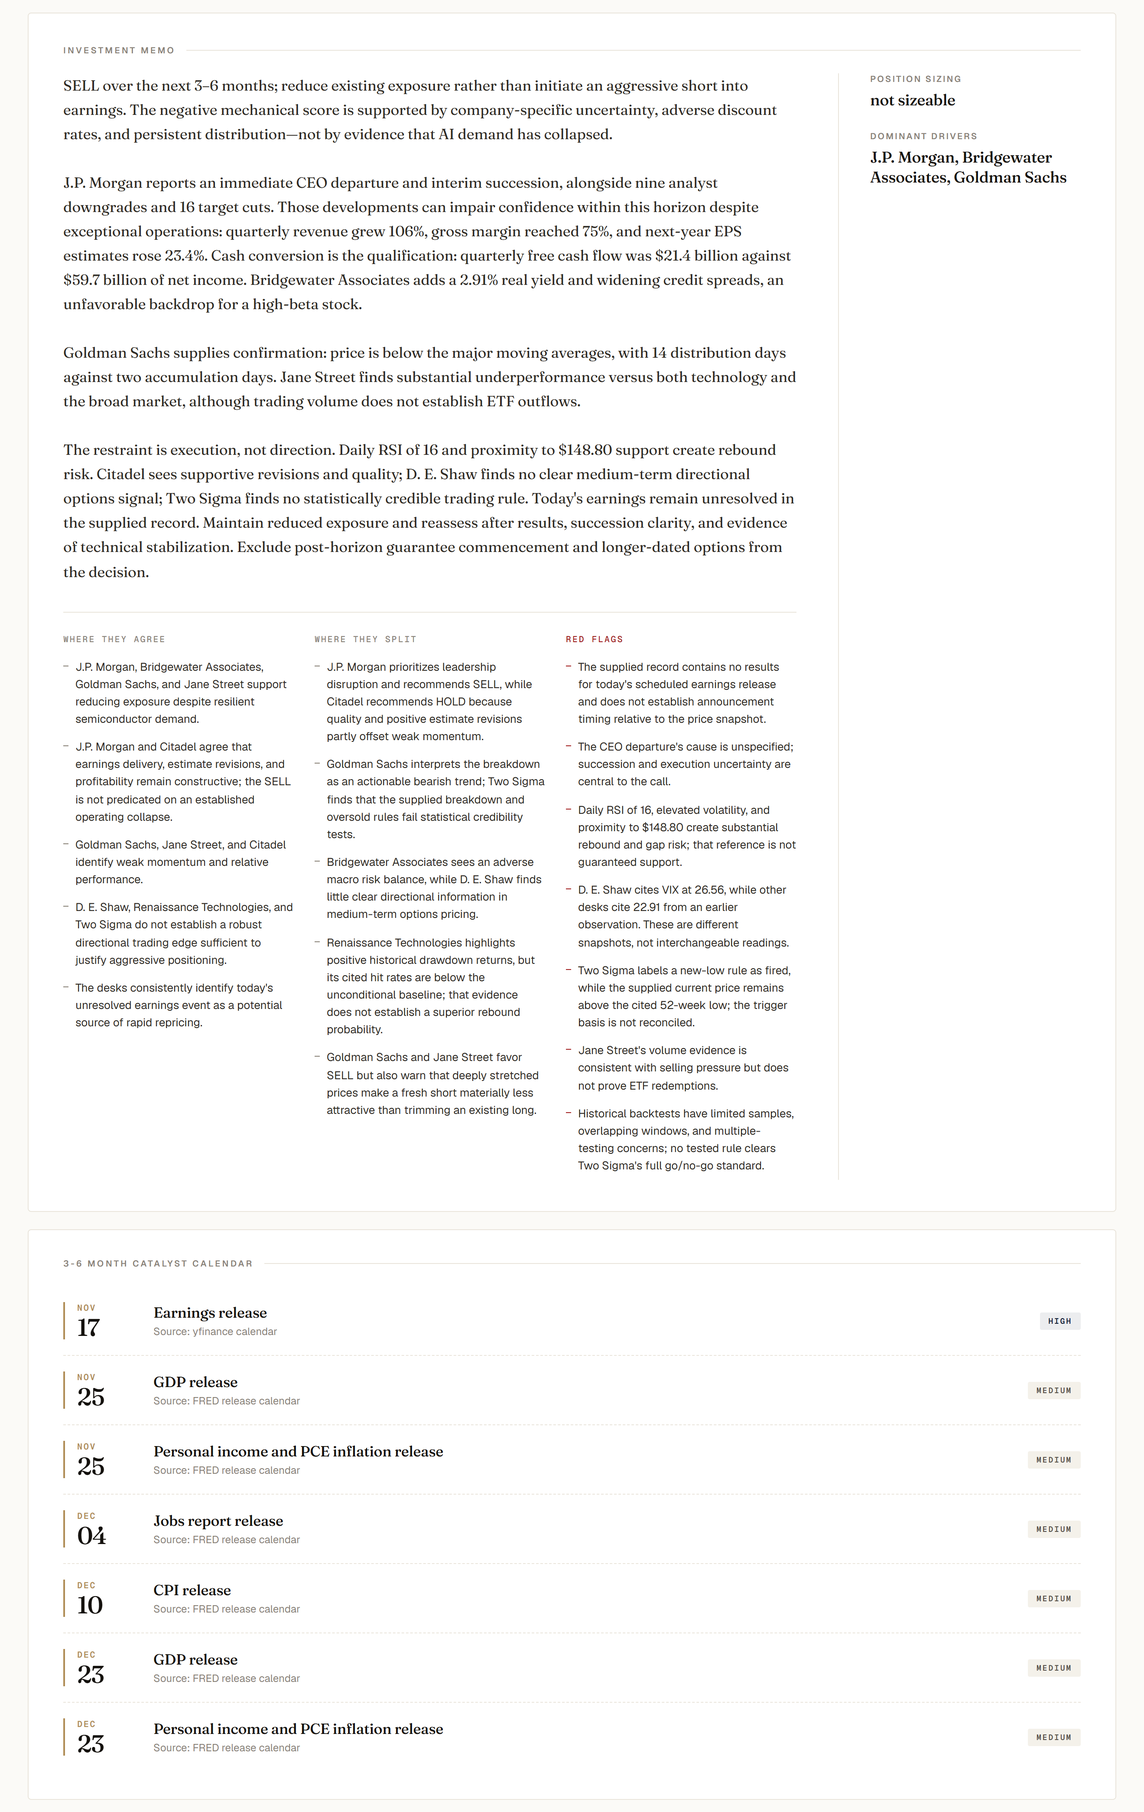
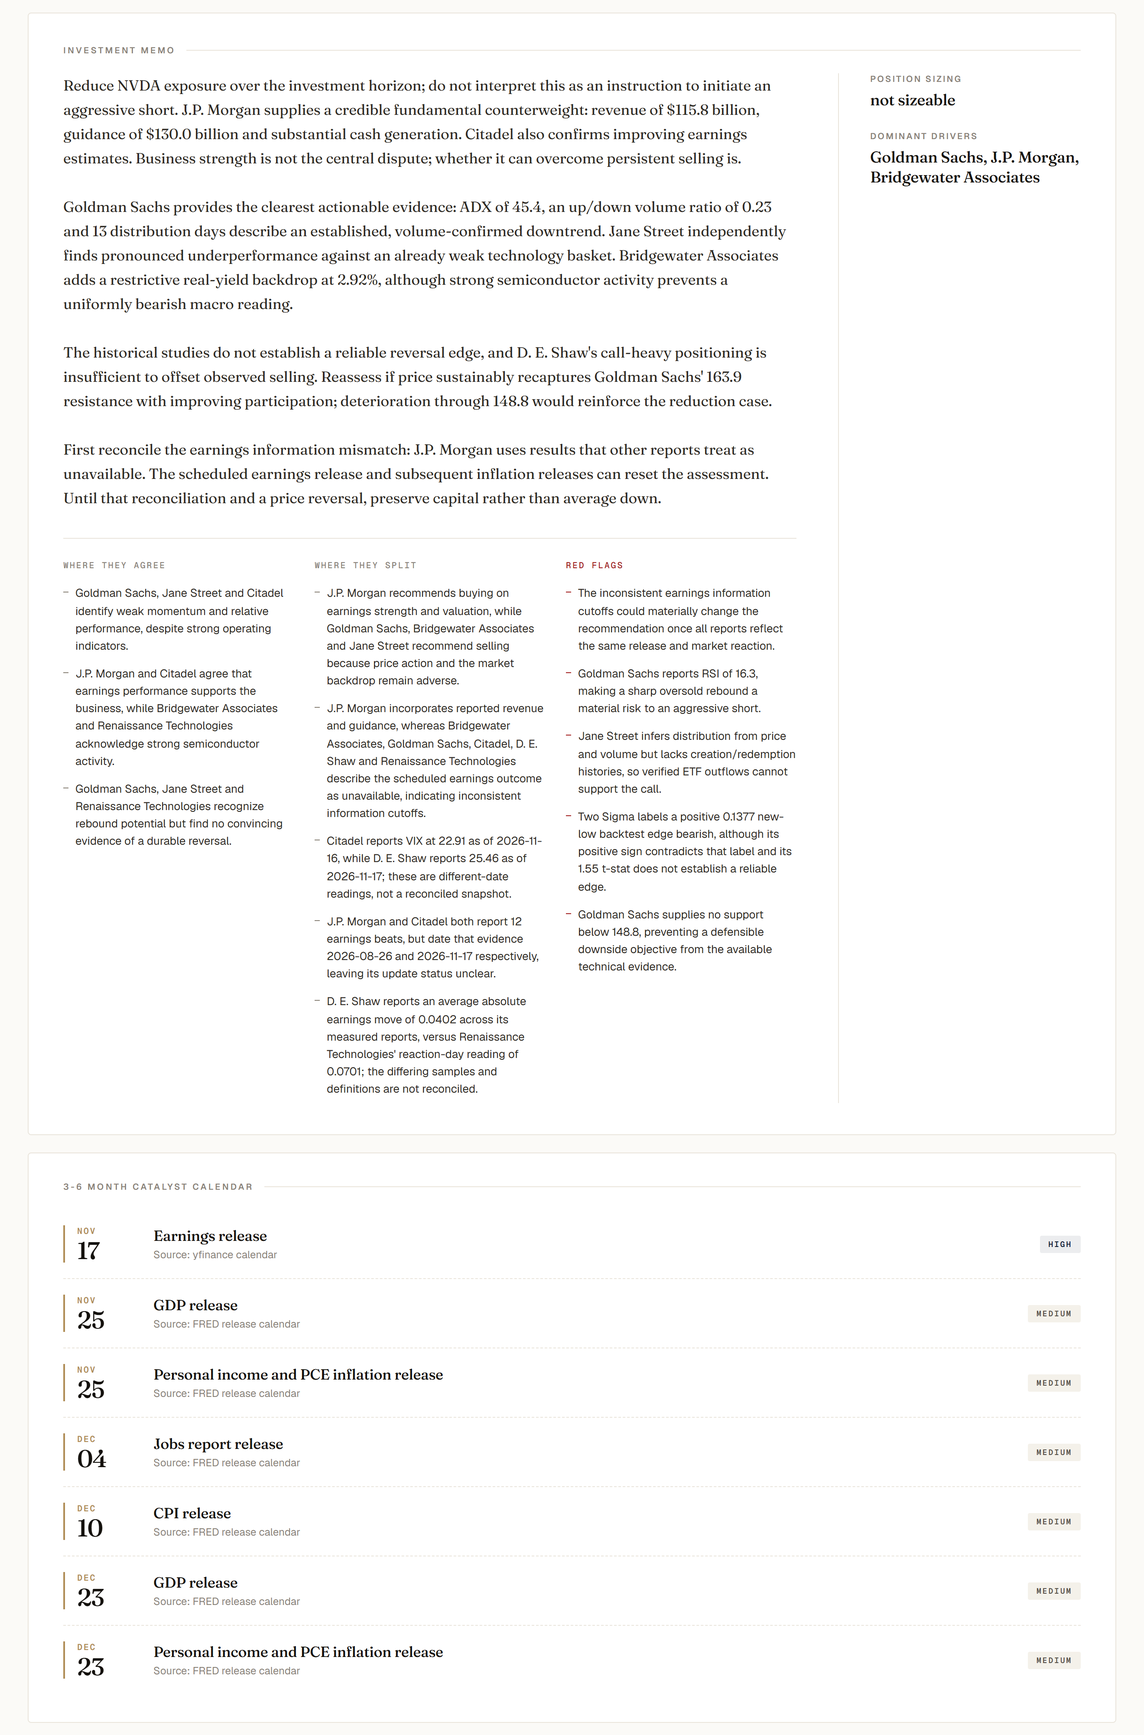
docs: how the desks report, with screenshots from a structured run
Also from that run: ETF landscape numbers are rounded, prose bullets are
asked to write numbers for a reader, Two Sigma states a rule's direction in
its evidence, and a ratio is shown as a plain number.

Claude-Session: https://claude.ai/code/session_017hq6XL2Prx1LLnTUxuNErU

diff --git a/equity_trader/data/yfinance_tools.py b/equity_trader/data/yfinance_tools.py
@@ -193,7 +193,7 @@ def _window_return(df, days: int) -> float | None:
     """Return over the last `days` sessions, or None if history is too short."""
     if df is None or len(df) < days + 1:
         return None
-    return float(df["Close"].iloc[-1] / df["Close"].iloc[-(days + 1)] - 1.0)
+    return num(df["Close"].iloc[-1] / df["Close"].iloc[-(days + 1)] - 1.0)
 
 
 def _beta(ticker_df, market_df) -> float | None:
@@ -207,7 +207,7 @@ def _beta(ticker_df, market_df) -> float | None:
             return None
         cov = joined.iloc[:, 0].cov(joined.iloc[:, 1])
         var = joined.iloc[:, 1].var()
-        return float(cov / var) if var > 0 else None
+        return num(cov / var, 3) if var > 0 else None
     except Exception:
         return None
 
@@ -244,7 +244,7 @@ def get_etf_landscape(ticker: str) -> dict:
 
     avg_60 = float(ticker_df["Volume"].tail(60).mean()) if len(ticker_df) >= 60 else None
     recent_5 = float(ticker_df["Volume"].tail(5).mean()) if len(ticker_df) >= 5 else None
-    vol_ratio = (recent_5 / avg_60) if (avg_60 and avg_60 > 0) else None
+    vol_ratio = num(recent_5 / avg_60, 2) if (avg_60 and avg_60 > 0) else None
 
     return {
         "as_of": as_of(ticker_df),

diff --git a/equity_trader/agents/base.py b/equity_trader/agents/base.py
@@ -66,7 +66,9 @@ def shared_rules_block() -> str:
         "3. ALWAYS provide thesis bullets (1-6) AND risks (1-4), regardless of\n"
         "   whether you call BUY, HOLD, or SELL. Thesis = your findings, built\n"
         "   on your evidence. Risks = what could invalidate them or hurt the\n"
-        "   position. Keep each bullet to one or two sentences. A HOLD with no\n"
+        "   position. Keep each bullet to one or two sentences, and write its\n"
+        "   numbers the way an analyst would: 29% where the DATA says 0.29,\n"
+        "   rounded to what matters. Only `evidence` copies raw. A HOLD with no\n"
         "   thesis is useless - even 'rule X hit rate is 48% on 23 trades, no\n"
         "   edge' is a thesis bullet.\n"
         "4. Conviction is 1-10 where 10 = bet-the-book confidence.\n"

diff --git a/tests/test_app.py b/tests/test_app.py
@@ -32,7 +32,7 @@ def _desk(name, rec="HOLD", err=None):
 def test_a_desk_card_shows_its_evidence_and_how_much_was_found_in_the_data():
     html = app._agent_card_html("jpm_fundamental", _desk("jpm_fundamental"))
     assert "Revenue, &lt;i&gt;Q2&lt;/i&gt;" in html and "$96.2B" in html
-    assert "75.00%" in html and "-29.01%" in html and "9.69x" in html
+    assert "75.00%" in html and "-29.01%" in html and ">9.69<" in html
     assert 'class="sig sig-bullish"' in html and 'class="sig sig-neutral"' in html
     assert "4 readings cited . 3 found in the data" in html
 

diff --git a/equity_trader/agents/two_sigma_backtest.py b/equity_trader/agents/two_sigma_backtest.py
@@ -204,6 +204,9 @@ Example:
    rate, edge after cost -1.2%, t -0.24 - no edge."
 Put the FINDINGS in thesis. Put what could be wrong with them in risks
 (survivorship bias, single-ticker fragility, regime change risk).
+In `evidence`, start each metric with the rule and say whether it is a long
+or a short rule: an edge is measured in the rule's own direction, so a
+positive edge on a short rule is bearish for the stock.
 
 {shared_rules_block()}
 

diff --git a/tests/data/test_yfinance_tools.py b/tests/data/test_yfinance_tools.py
@@ -81,6 +81,9 @@ def test_get_etf_landscape_returns_keys(monkeypatch):
     }
     assert expected.issubset(out.keys())
     assert out["sector_etf"] == "XLK"  # Technology -> XLK
+    # Desks copy these numbers into their reports, so they are rounded here.
+    for key in expected - {"sector", "sector_etf"}:
+        assert out[key] is None or out[key] == round(out[key], 4), key
 
 
 def test_valuation_and_analyst_targets_are_dated(monkeypatch):

diff --git a/app.py b/app.py
@@ -77,7 +77,7 @@ def _fmt_reading(value: float, unit: str) -> str:
         return f"{value:,.0f}"
     if unit == "fraction":
         return f"{value * 100:,.2f}%"
-    return f"{value:,.2f}" + {"percent": "%", "ratio": "x"}.get(unit, "")
+    return f"{value:,.2f}" + ("%" if unit == "percent" else "")
 
 
 def _fmt_delta(target, current) -> str:

diff --git a/docs/design.md b/docs/design.md
@@ -20,7 +20,8 @@ the gatherer fetches every desk's data          gatherer.py
 eight specialists, one model call each,         runner.py, agents/
 three at a time
   |
-eight AgentVerdict objects
+eight reports, each cited number checked        runner.py, gatherer.py
+against the data
   |
 weighted score, computed in code                scoring.py
   |
@@ -47,7 +48,7 @@ It exists because of how the providers behave under load. Eight desks asking at 
 
 ## The committee
 
-Each desk is a standalone OpenAI Agents SDK agent with `AgentVerdict` as its output type. No desk sees another's work. Weights sum to 100 and are fixed in `config.py`.
+Each desk is a standalone OpenAI Agents SDK agent that answers in its own report schema. No desk sees another's work. Weights sum to 100 and are fixed in `config.py`.
 
 Two principles govern what a desk is given:
 
@@ -75,7 +76,7 @@ Two principles govern what a desk is given:
 | Renaissance Technologies, Pattern Recognition | `renaissance_pattern` | 8 | Seasonality, earnings event study, forward-return study, volatility and gaps |
 | Two Sigma, Backtest Sanity | `two_sigma_backtest` | 5 | Rule backtest |
 
-Every prompt is a persona and framework, a description of that desk's sections, and the shared rules in `agents/base.py`: a strict 3 to 6 month horizon, the date and price taken from the snapshot, cited data points, thesis and risks on every call, nothing assumed beyond the data handed over, and `error_note` left null. A test checks that every section a prompt names is one the desk is given.
+Every prompt is a persona and framework, a description of that desk's sections, and the shared rules in `agents/base.py`: a strict 3 to 6 month horizon, the date and price taken from the snapshot, evidence copied from the data, thesis and risks on every call, and nothing assumed beyond the data handed over. A test checks that every section a prompt names is one the desk is given.
 
 ## Models
 
@@ -86,15 +87,28 @@ Every prompt is a persona and framework, a description of that desk's sections, 
 
 Routing is one `ModelSpec(provider, model)` per agent in `config.py`. `build_agent` in `agents/base.py` uses the Responses API for OpenAI and the Chat Completions API for Groq, DeepSeek and Gemini through their OpenAI-compatible endpoints. Those three providers are supported by the factory and need their own key in `.env`; none is used by the default configuration.
 
-## The verdict contract
+## The report contract
 
-Defined in `schemas.py`.
+Defined in `schemas.py`. There are two kinds of type: what a model writes, and what code builds from it.
 
-`AgentVerdict`: `agent`, `ticker`, `recommendation` (BUY, HOLD or SELL), `conviction` (1 to 10), `price_target_6mo` (optional), `thesis` (up to 6), `risks` (up to 4), `data_cited`, `error_note`.
+| Written by a model | Built in code from it |
+|---|---|
+| `DeskReport`: `evidence` (1 to 12), `thesis` (1 to 6), `risks` (1 to 4), `recommendation`, `conviction` (1 to 10), `price_target_6mo` | `AgentVerdict`: the report plus `agent`, `ticker`, `in_data` on each reading, and `error_note` |
+| `ChairMemo`: `key_agreements`, `key_disagreements`, `red_flags`, `dominant_drivers`, `synthesis`, `final_recommendation`, `conviction`, `score_departure_rationale`, `position_sizing_suggestion`, `stop_loss_level` | `OrchestratorVerdict`: the memo plus `ticker`, `run_timestamp`, `current_price`, `weighted_score`, `weights_used`, `price_target_6mo`, `catalyst_calendar`, `agent_verdicts` |
 
-`OrchestratorVerdict`: `ticker`, `run_timestamp`, `current_price`, `final_recommendation`, `conviction`, `price_target_6mo`, `weighted_score`, `weights_used`, `score_departure_rationale`, `synthesis`, `key_agreements`, `key_disagreements`, `dominant_drivers`, `red_flags`, `position_sizing_suggestion`, `stop_loss_level`, `catalyst_calendar`, `agent_verdicts`.
+An `Evidence` item is one reading: `metric`, `value` (a number), `unit` (percent, fraction, usd, ratio, count, index or other), `as_of` (a date), `source` and `signal` (bullish, bearish or neutral).
 
-`error_note` belongs to the runner. It marks a desk that failed and removes it from the score. If a model writes a caveat there, the runner moves it into `risks` and clears the field.
+Five rules shape these types:
+
+- **Enforced while the model writes.** With OpenAI the schemas run in strict mode, so the output cannot leave the schema. They use only constraints strict mode supports: enums, number ranges, item counts and date formats, and no string lengths. Other providers are validated after the fact.
+- **A desk can only cite what it was handed.** `desk_report_for(sections)` builds each desk's schema with `source` limited to that desk's own sections. `chair_memo_for(agents)` limits `dominant_drivers` to the desks on the committee.
+- **Evidence first, the call last.** A model produces the fields in schema order, so a desk writes its evidence, thesis and risks before its recommendation, and the chair writes agreements, splits and red flags before its call.
+- **A model writes only judgment.** Neither schema has a field for anything code knows. A desk cannot name itself, mark itself failed or restate the ticker. The chair cannot write the price, the score, the target, the weights, a catalyst date or the desks' reports.
+- **Cited numbers are checked.** `gatherer.check` looks for each reading's value in the section it names and sets `in_data`. A value is found when some number in that section, rounded to the precision the desk gave, equals it. Sign is ignored, and so is a fraction given as a percentage or a large amount given in thousands up to trillions. Numbers inside filing text count.
+
+The check is strong for precise readings and weak for round ones. Measured on one NVDA gather, of 500 made-up values with two decimals tested against each of the 33 sections, 0.6% were accepted; of made-up whole numbers, 30%. In the NVDA run of 2026-11-17 the desks cited 81 readings, 61 of them to two or more decimals, and all 81 were found in the section named; looked for in a different section picked at random, 14% were. The check says a number is in the data. It does not say the desk interpreted it correctly.
+
+`brief` in `gatherer.py` builds a desk's request and `_format_input` in `orchestrator.py` builds the chair's: one JSON document with the date, the horizon, the price, the score, each desk's house, weight and report, and the sourced catalysts.
 
 ## Scoring and what the model cannot change
 
@@ -104,9 +118,9 @@ score = sum( sign(recommendation) * conviction * weight ) / 100
 
 `sign` is +1 for BUY, 0 for HOLD, -1 for SELL, so the score runs from -10 to +10. A failed desk is excluded and its weight is redistributed pro rata across the rest.
 
-The orchestrator model writes the memo, the agreements and splits, the red flags, the position size, the stop level, the final recommendation and its conviction. It is given each desk's house name and told to use it in prose. The final call is a judgment and may depart from the score. A call against the score's sign must come with `score_departure_rationale`; without one, a red flag is added in code.
+The orchestrator model writes the memo, the agreements and splits, the red flags, the position size, the stop level, the final recommendation and its conviction. It refers to a desk by its house name. The final call is a judgment and may depart from the score. A call against the score's sign must come with `score_departure_rationale`; without one, a red flag is added in code.
 
-After the LLM call, `_stamp_deterministic` overwrites these fields with values computed in code:
+`orchestrator._verdict` then adds what code supplies:
 
 | Field | Source |
 |---|---|
@@ -115,11 +129,10 @@ After the LLM call, `_stamp_deterministic` overwrites these fields with values c
 | `weighted_score` | `scoring.compute_weighted_score` |
 | `price_target_6mo` | conviction-weighted average of desk targets |
 | `weights_used` | fixed weights after redistribution |
-| `agent_verdicts` | the eight verdicts as received |
-| `dominant_drivers` | filtered to valid desk names |
-| `catalyst_calendar` | sourced catalysts merged in, anything outside today to today + 180 days dropped |
+| `agent_verdicts` | the eight reports as received and checked |
+| `catalyst_calendar` | the sourced catalysts, and nothing else |
 
-Sourced catalysts are the company's earnings and dividend dates and the scheduled CPI, jobs, GDP and PCE releases.
+Sourced catalysts are the company's earnings and dividend dates and the scheduled CPI, jobs, GDP and PCE releases. The chair is given them and may cite them, but it has no field in which to write a date of its own.
 
 ## Data layer
 
@@ -183,6 +196,8 @@ The pattern and backtest desks work from the stock's full price history.
 - **Failed fetch in the gatherer:** logged with the section's name. Each desk that reads the section is told it is unavailable and why, and says so in its risks.
 - **Refused by Yahoo:** yfinance hands a refused request back as an empty result. `yfinance_tools` checks every response, retries a 401, 403 or 429 once after two seconds, and raises `DataFetchError` if it is refused again.
 - **Rate limits:** a semaphore runs three agents at a time. An OpenAI 429 is retried after 8, 16 and 32 seconds.
+- **Report outside the schema:** OpenAI enforces the schema as the model writes, so this cannot happen there. On a provider that does not, the report fails validation and the desk is treated as failed.
+- **Cited number not in the data:** the reading is kept and marked `in_data: false`, the runner logs it, and the chair is told to treat it as unconfirmed.
 - **Failed desk:** any other exception, or a fourth 429, becomes a HOLD placeholder with `error_note` set. The desk is shown as failed and excluded from the score.
 - **Failed orchestrator:** a mechanical verdict takes its place: BUY above +1, SELL below -1, HOLD otherwise, with a memo that says the synthesis was unavailable.
 

diff --git a/README.md b/README.md
@@ -25,6 +25,7 @@ The premise is diversity in thought process: desks that read different evidence 
 <a href="#quick-start">Quick start</a> &nbsp;&middot;&nbsp;
 <a href="#the-committee">The committee</a> &nbsp;&middot;&nbsp;
 <a href="#a-run-live">A run, live</a> &nbsp;&middot;&nbsp;
+<a href="#how-the-desks-report">Structured reports</a> &nbsp;&middot;&nbsp;
 <a href="#the-report">The report</a> &nbsp;&middot;&nbsp;
 <a href="#architecture">Architecture</a> &nbsp;&middot;&nbsp;
 <a href="#how-the-verdict-is-computed">Scoring</a>
@@ -117,7 +118,7 @@ Every desk's reasoning stays on the page. Nothing is averaged away.
   <img src="docs/assets/architecture-light.svg" width="100%" alt="A ticker goes to the gatherer, which fetches every desk's data before any desk starts. Eight specialist agents are each handed their share and answer in one model call, three at a time. The orchestrator combines a deterministic score, an LLM memo and live catalysts into one verdict, saved to SQLite and JSON.">
 </picture>
 
-- **Independent specialists.** Each desk is a standalone OpenAI Agents SDK agent with `AgentVerdict` as its output type. No desk sees another's work. Desks share context, never conclusions.
+- **Independent specialists.** Each desk is a standalone OpenAI Agents SDK agent that answers in its own report schema. No desk sees another's work. Desks share context, never conclusions.
 - **The model interprets; code computes.** Ratios, indicators, event studies and backtests are calculated in code. No desk does arithmetic or recalls a fact from memory.
 - **A gatherer before the desks.** One component fetches everything the desks will read, one request at a time, before any desk starts. It is code, not a model: what to fetch is fixed by the data each desk declares. A run makes about 60 FRED requests against a limit of 120 a minute, and the macro dashboard is kept for the day.
 - **One model call per desk.** A desk has no tools. Its data arrives in its request, it reads what bears on its discipline, and it answers once. No desk can reach a data provider.
@@ -127,6 +128,31 @@ Every desk's reasoning stays on the page. Nothing is averaged away.
 - **Events, not just numbers.** The fundamental desk reads the company's five most recent 8-Ks in full, so a CEO departure, an acquisition or a new guarantee is weighed in the call before it shows up in any statement.
 - **Dated inputs, honest statistics.** Every reading carries its observation date. Every statistical claim carries its sample size and the baseline it has to beat, so a stale number or a fake edge is visible to the chair.
 - **Graceful degradation.** A failed desk is excluded and its weight is redistributed. Only the runner can mark a desk as failed. If the orchestrator call fails, a mechanical aggregation takes its place.
+
+<br>
+
+## How the desks report
+
+Every desk answers the chair in a fixed JSON schema, and the model provider holds it to that schema while it writes. Most of a report is a list of evidence, one typed reading per item:
+
+```json
+{"metric": "RSI, 14-day", "value": 16.3, "unit": "index",
+ "as_of": "2026-11-17", "source": "technicals", "signal": "bearish", "in_data": true}
+```
+
+A short thesis, the risks and the call follow the evidence. The chair receives all eight reports as one JSON document and compares them reading by reading.
+
+| What is controlled | How |
+|---|---|
+| **Shape** | The schema is enforced as the model generates, so a report that does not fit cannot be produced: the call is BUY, HOLD or SELL, conviction is 1 to 10, every reading has a number, a unit, a date and a source. |
+| **Sources** | Each desk's schema lists only the data sections that desk was handed. It cannot cite anything else. |
+| **Order** | Evidence comes first and the call comes last, and a model writes in that order. The call follows from the evidence instead of being justified after the fact. |
+| **Ownership** | A model writes only what needs judgment. Which desk it is, the ticker, the price, the score, the target and the catalysts are added in code. The schemas have no such fields, so no model can get them wrong. |
+| **Grounding** | Code looks for every number a desk cites in the data section it names and marks it `in_data`. The chair is told to treat a reading that was not found as unconfirmed. |
+
+This is what keeps a chain of models honest. A number a desk cites that is not in its data is flagged before the chair reads it. A format cannot drift from run to run, because there is only one format. The score, the price and the target cannot be garbled in a hand-off, because code carries them and no model writes them. In the run shown above the desks cited 81 readings, and all 81 were found in the data they were handed.
+
+The check has limits. It confirms that a number is in the data, not that the desk read it correctly, and a round number such as 16 is easier to match than 16.3.
 
 <br>
 
@@ -140,9 +166,9 @@ score = sum( sign(recommendation) * conviction * weight ) / 100
 
 `sign` is +1 for BUY, 0 for HOLD and -1 for SELL. Conviction runs 1 to 10 and weights sum to 100, so the score ranges from -10 to +10.
 
-The weights are fixed in code. The orchestrator cannot change them. It reads the score and all eight verdicts, then writes a 150 to 300 word memo and makes the final call. That call is a judgment and may depart from the score, but a call against the score's sign has to come with a written rationale.
+The weights are fixed in code. The orchestrator cannot change them. It reads the score and all eight reports, then writes a 150 to 300 word memo and makes the final call. That call is a judgment and may depart from the score, but a call against the score's sign has to come with a written rationale.
 
-After the LLM call, the score, the conviction-weighted price target, the run timestamp, the current price, the agent verdicts and the sourced catalysts are stamped over whatever the model returned. The model cannot alter them. A call against the score's sign with no rationale is flagged on the report.
+The orchestrator's schema holds only its judgment. The score, the conviction-weighted price target, the run timestamp, the current price, the desks' reports and the sourced catalysts are added in code afterwards, so the model never writes them and cannot alter them. A call against the score's sign with no rationale is flagged on the report.
 
 <br>
 
@@ -232,11 +258,11 @@ equity-trader/
 ├── .env.template               # required environment variables
 ├── equity_trader/
 │   ├── config.py               # model routing + weights
-│   ├── schemas.py              # Pydantic: AgentVerdict, OrchestratorVerdict
+│   ├── schemas.py              # what a desk and the chair must answer in
 │   ├── exceptions.py
 │   ├── scoring.py              # deterministic weighted score
 │   ├── orchestrator.py         # LLM synthesizer + mechanical fallback
-│   ├── gatherer.py             # fetches the run's data, builds each desk's brief
+│   ├── gatherer.py             # fetches the data, briefs each desk, checks citations
 │   ├── runner.py               # gatherer, then async fan-out, then the chair
 │   ├── persistence.py          # SQLite + JSON snapshots
 │   ├── ui.css                  # web UI stylesheet
